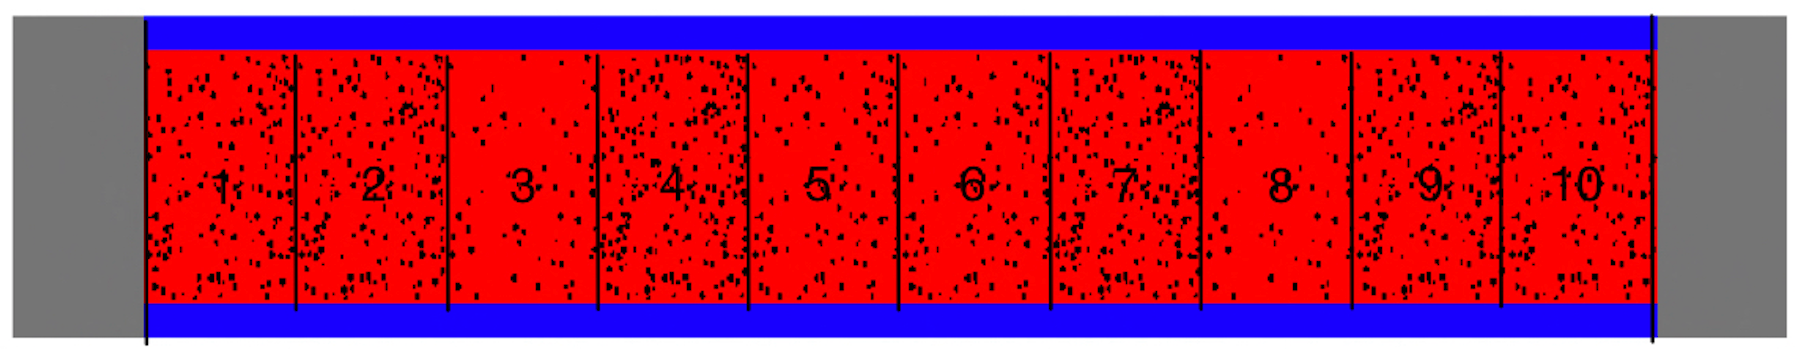
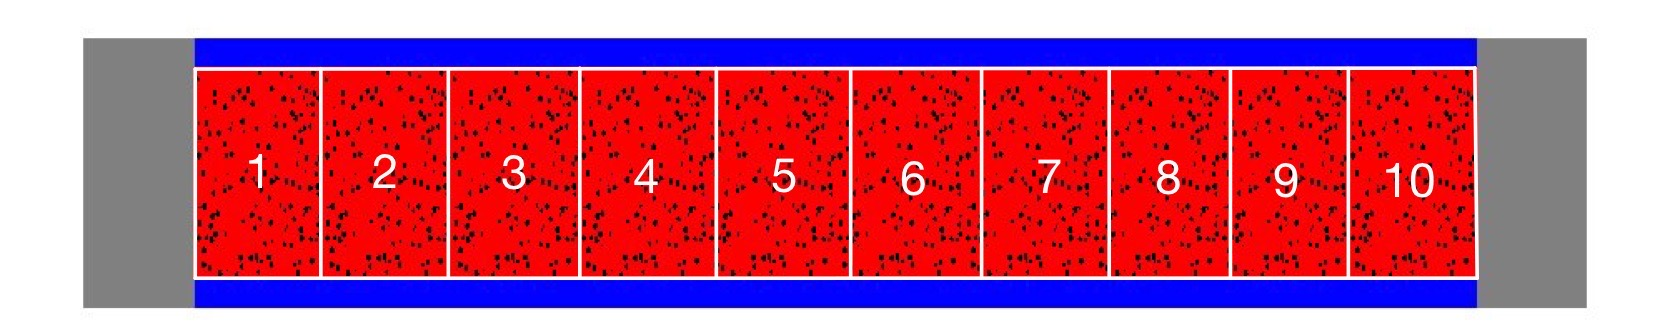
figs

diff --git a/pres/ahtr_optimization.tex b/pres/ahtr_optimization.tex
@@ -76,6 +76,14 @@
     \end{block}
 \end{frame}
 
+\begin{frame}
+    \frametitle{AHTR Geometries}
+    \begin{figure}
+        \includegraphics[width=0.9\linewidth]{figures/straightened-plank-pres.png} 
+        \caption{AHTR Plank.}
+    \end{figure}
+\end{frame}
+
 \subsection{AHTR Plank Optimization Results}
 
 \subsection{AHTR One-Third Assembly Optimization Results}
